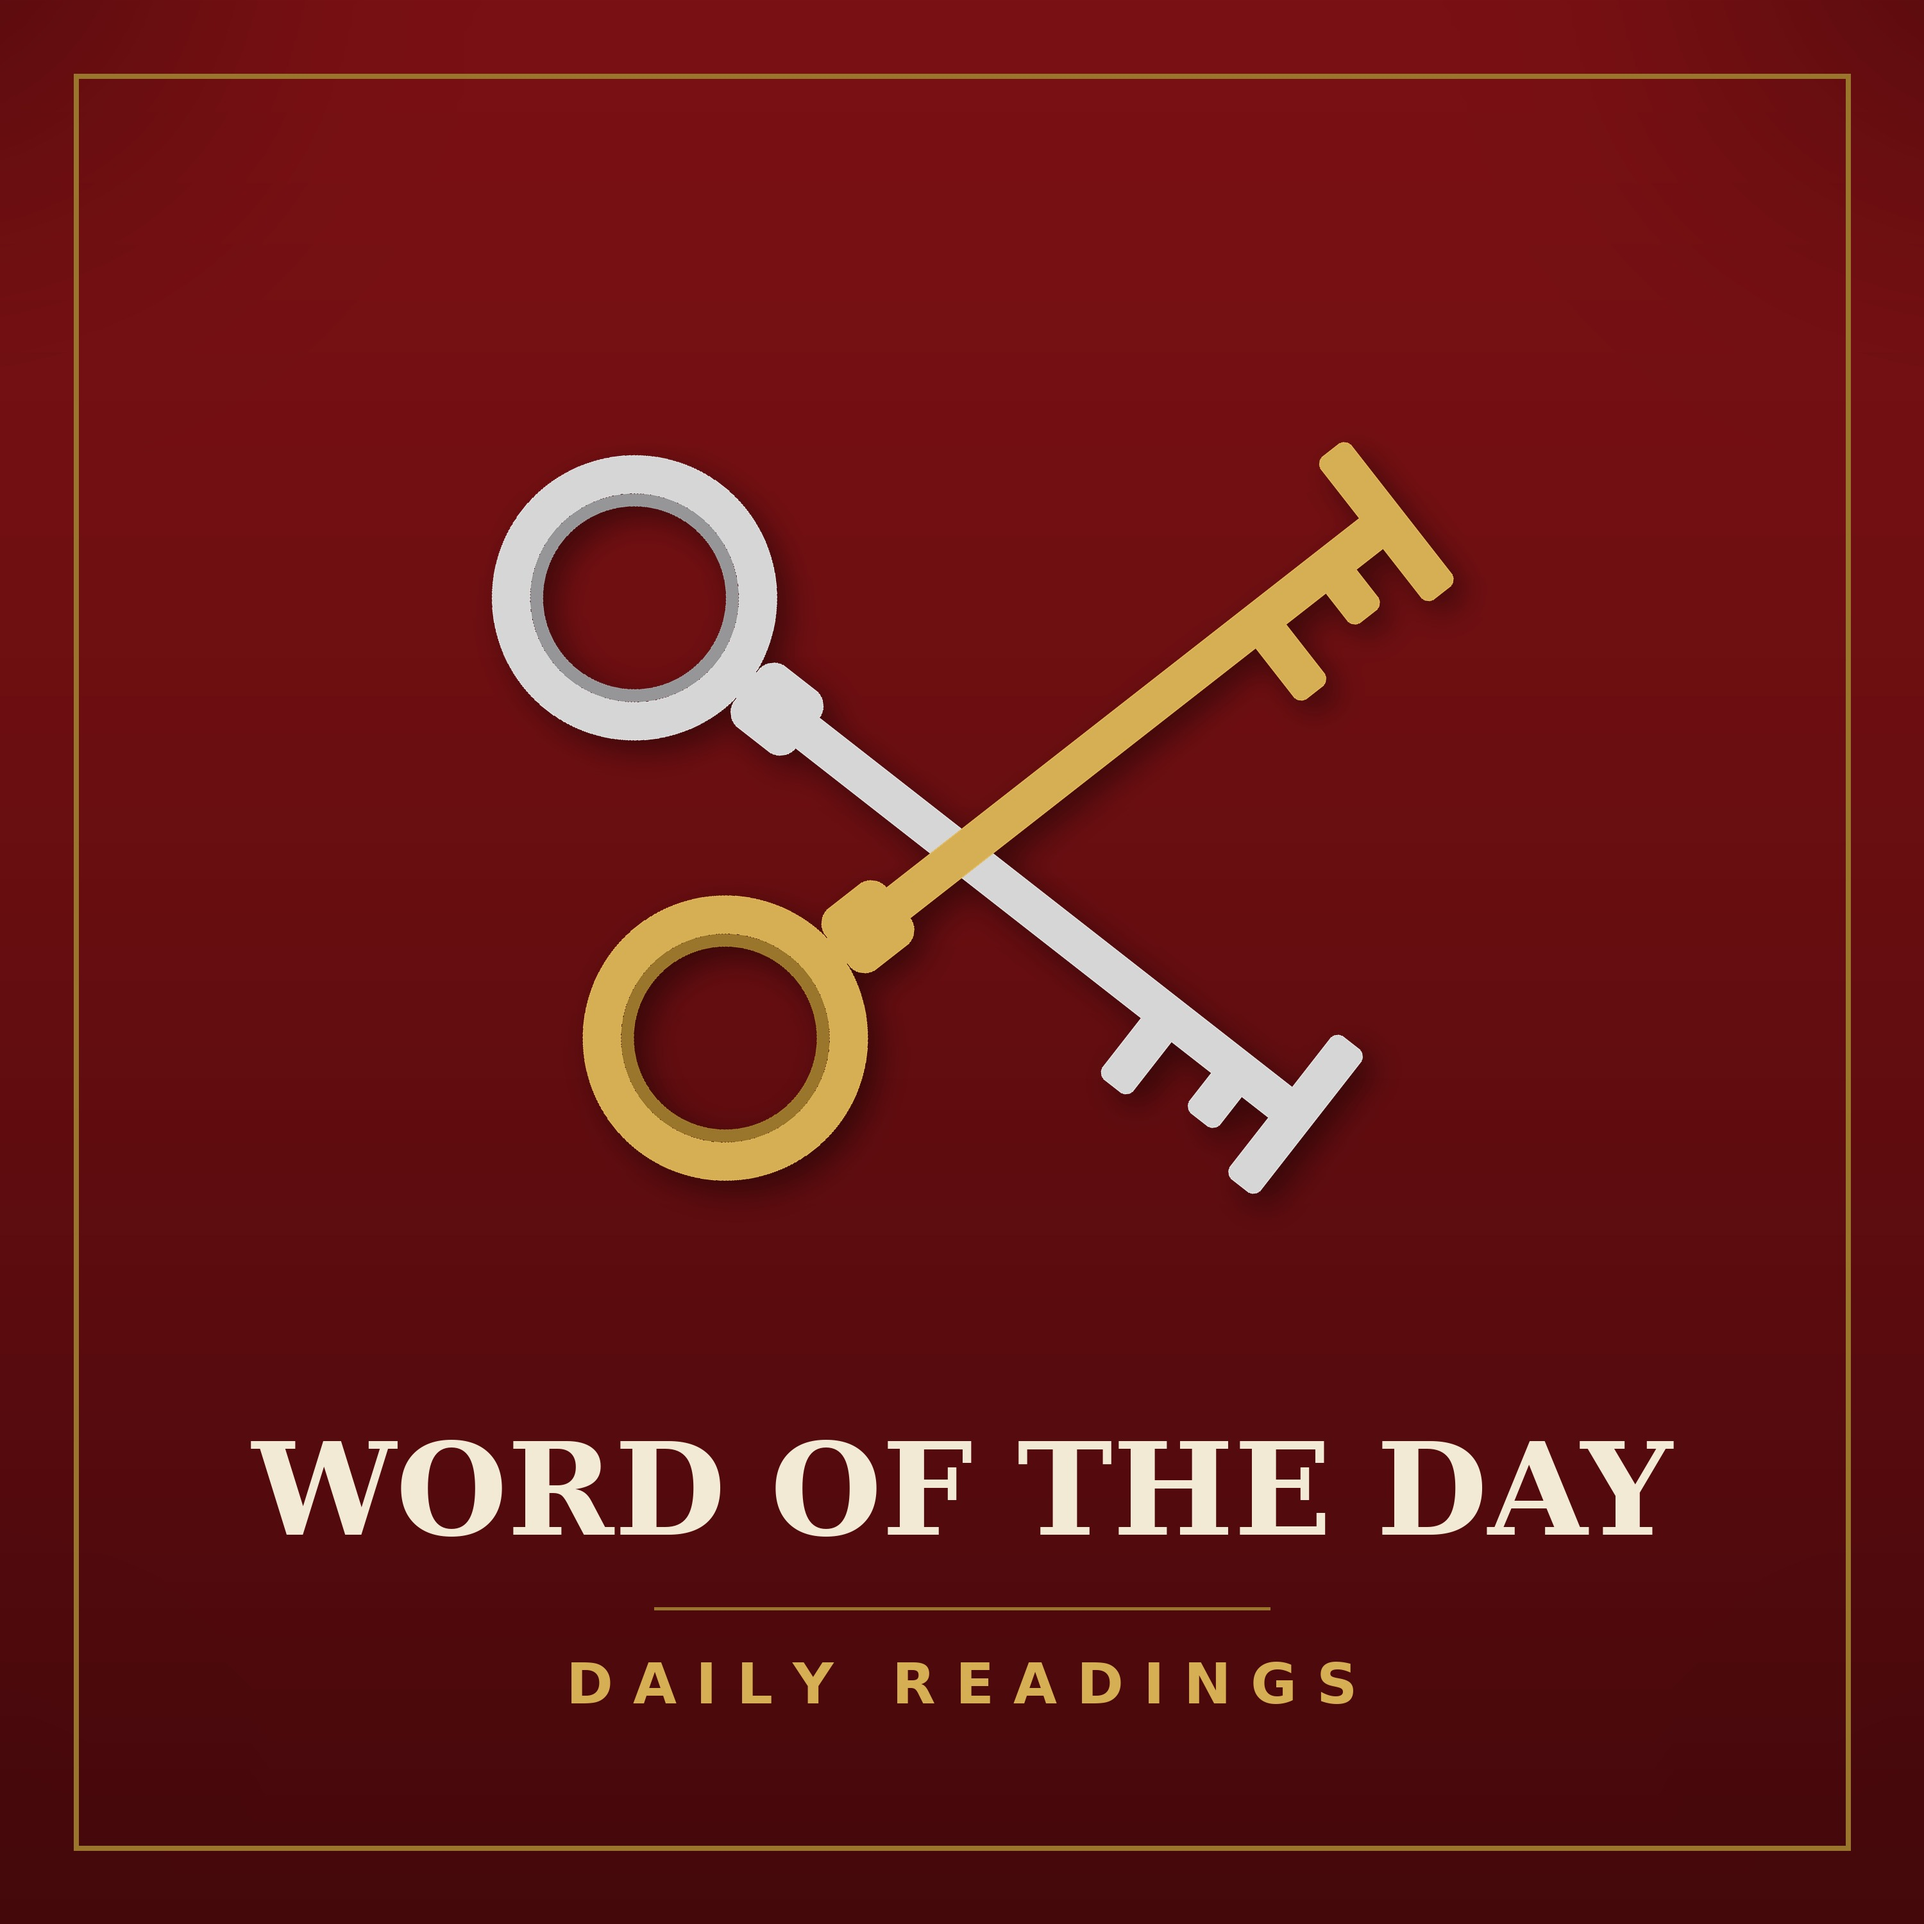
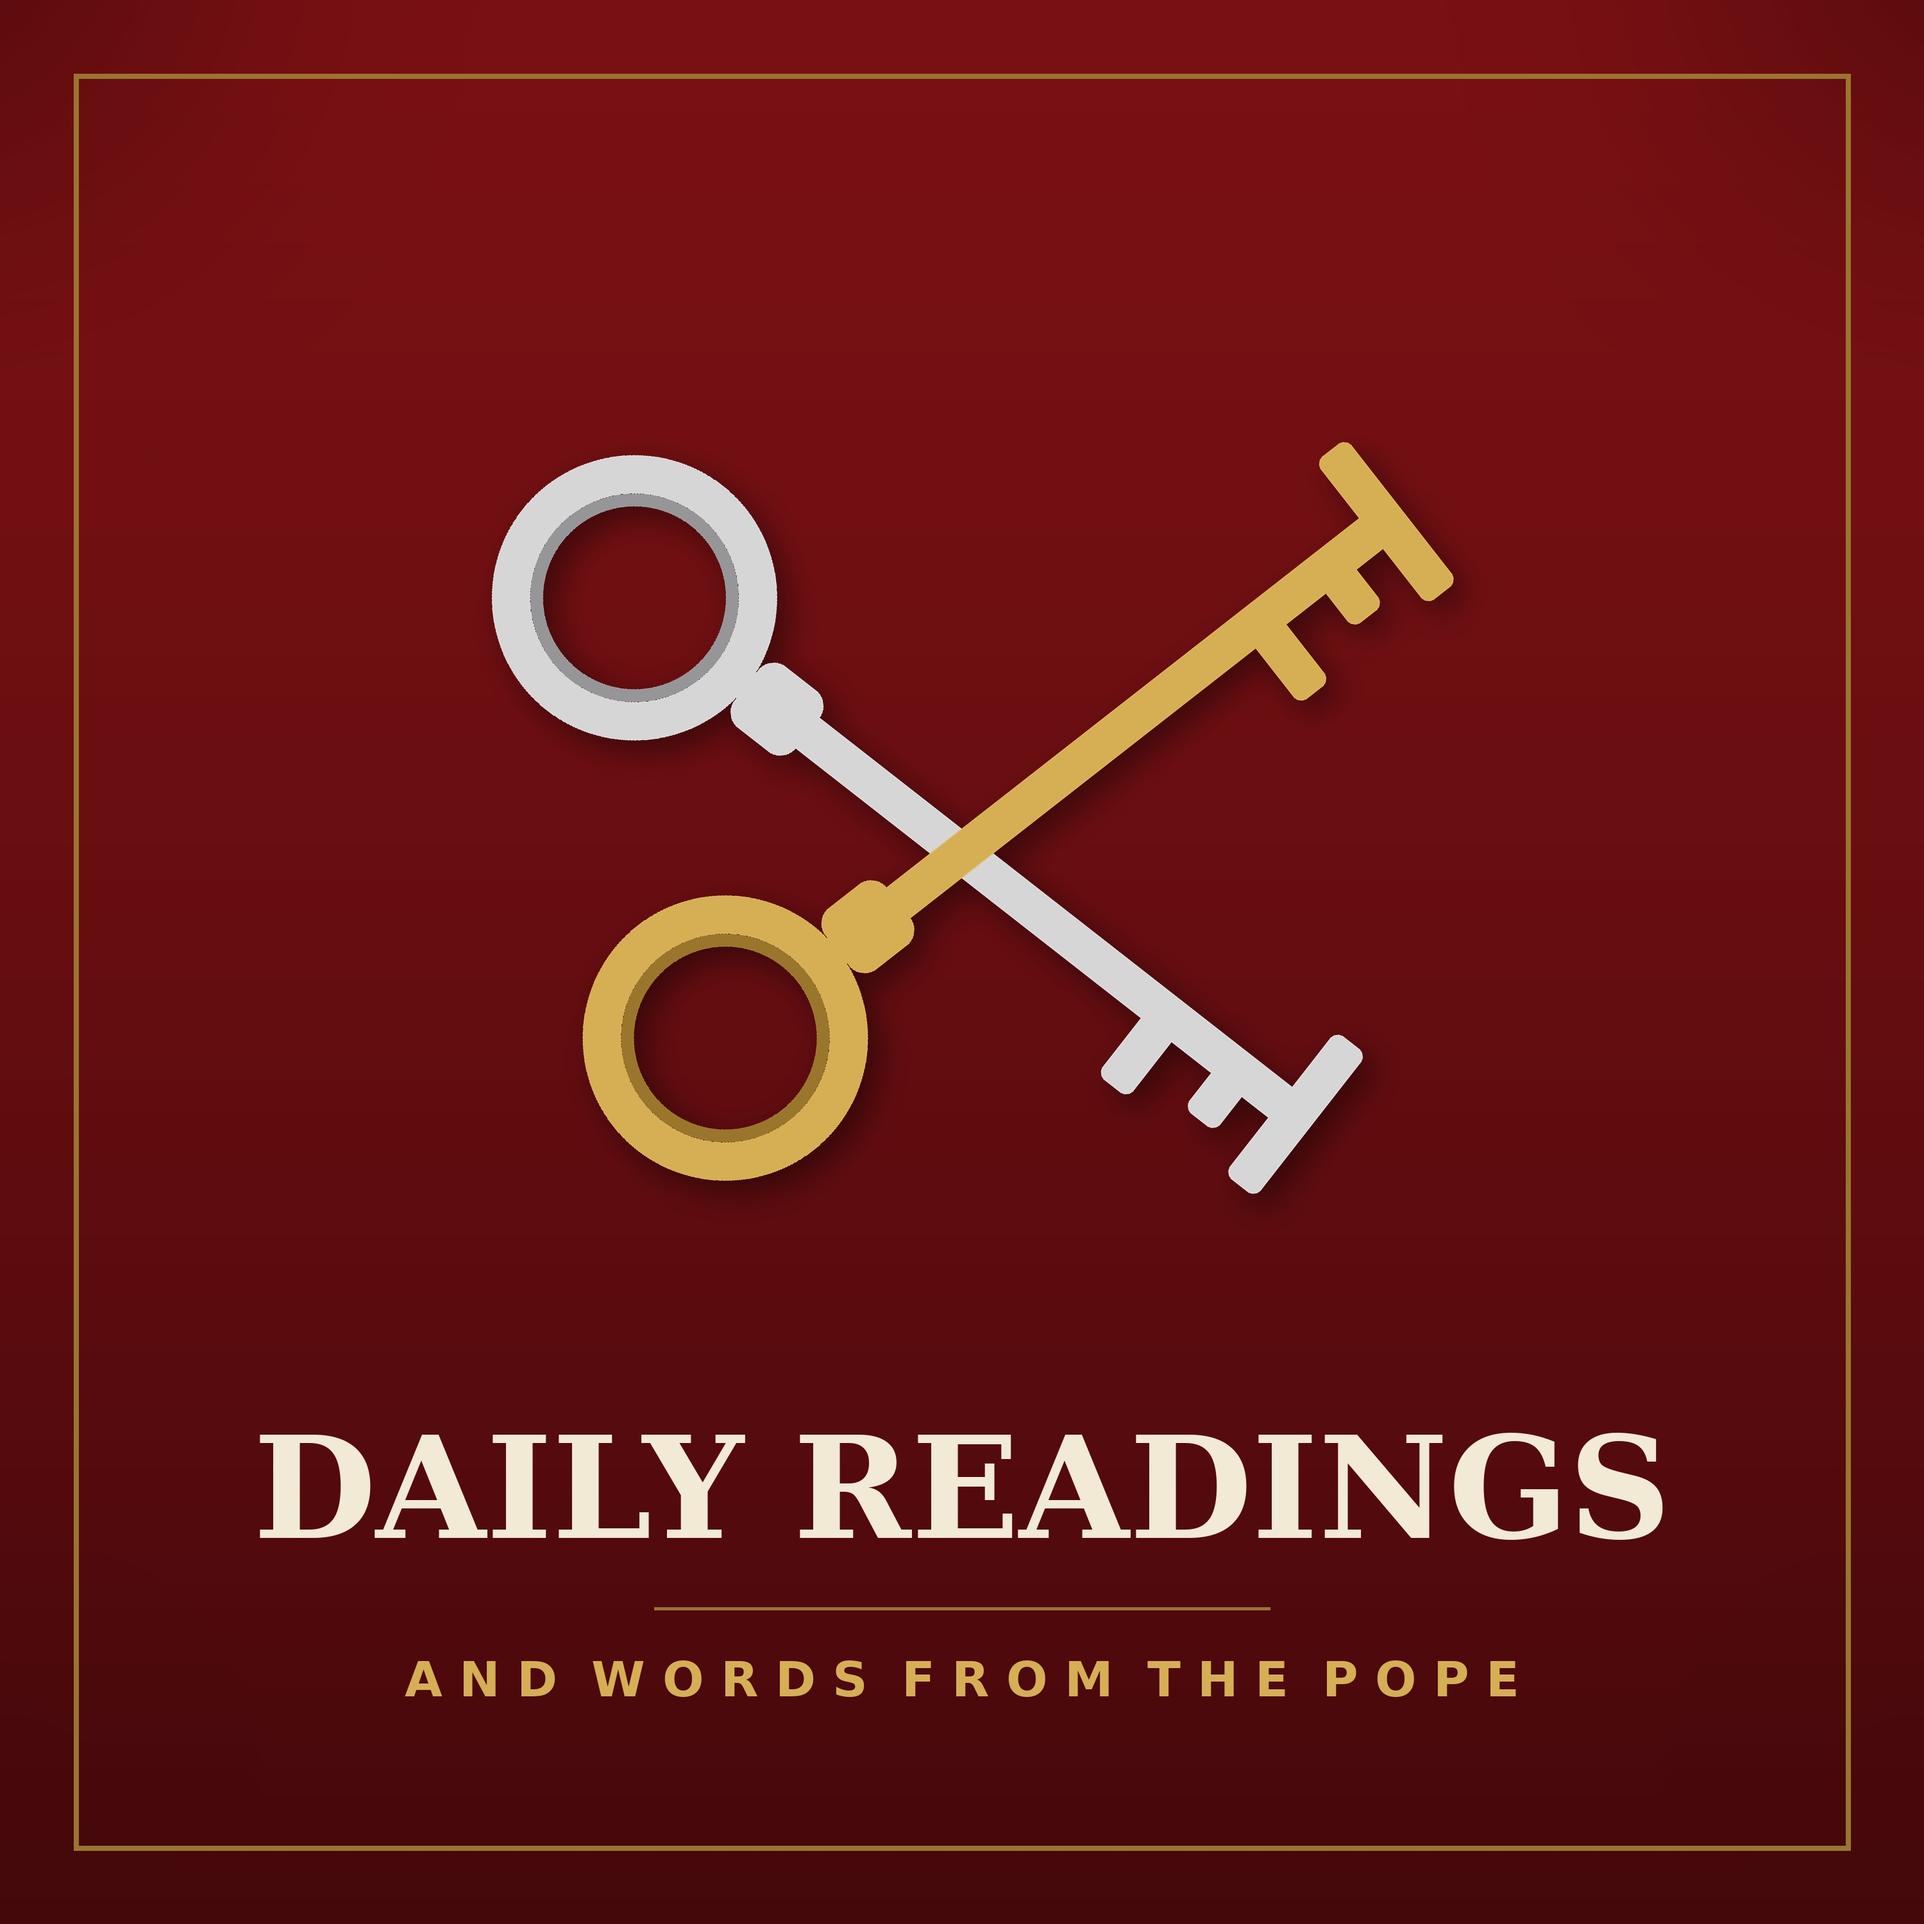
Match the artwork and episode titles to the new show name
Cover art now reads DAILY READINGS with 'and words from the Pope' beneath
it. Cover art is usually seen small in a list, so a short bold phrase reads
better there than the full show name crammed in.

Episode titles become 'Daily Readings - 02 August 2026' via EPISODE_PREFIX.

Claude-Session: https://claude.ai/code/session_01S5iU8V5MqgyuBfBSzgeCgr

Changed region(s): [[0.124, 0.744, 0.868, 0.806], [0.217, 0.868, 0.806, 0.899]]

diff --git a/tools/make_cover.py b/tools/make_cover.py
@@ -143,17 +143,17 @@ def add_text(img):
     d = ImageDraw.Draw(img)
     # Keep type well inside the border rather than running up against it.
     safe = SIZE * 0.74
-    title = fitted_font(d, "WORD OF THE DAY", SERIF_BOLD, safe, SIZE // 11)
-    sub = fitted_font(d, "D A I L Y   R E A D I N G S", SANS_BOLD,
-                      safe * 0.62, SIZE // 34)
+    title = fitted_font(d, "DAILY READINGS", SERIF_BOLD, safe, SIZE // 9)
+    sub = fitted_font(d, "A N D  W O R D S  F R O M  T H E  P O P E", SANS_BOLD,
+                      safe * 0.82, SIZE // 34)
 
     def centred(text, font, y, fill):
         box = d.textbbox((0, 0), text, font=font)
         d.text(((SIZE - (box[2] - box[0])) / 2 - box[0], y), text,
                font=font, fill=fill)
 
-    centred("WORD OF THE DAY", title, int(SIZE * 0.735), CREAM)
-    centred("D A I L Y   R E A D I N G S", sub, int(SIZE * 0.858), GOLD)
+    centred("DAILY READINGS", title, int(SIZE * 0.730), CREAM)
+    centred("A N D  W O R D S  F R O M  T H E  P O P E", sub, int(SIZE * 0.858), GOLD)
 
     # Thin rule between the two lines of type.
     y = int(SIZE * 0.836)

diff --git a/word_of_the_day.py b/word_of_the_day.py
@@ -70,6 +70,8 @@ PODCAST_DESCRIPTION = os.environ.get(
     "of the Popes, read aloud each morning.",
 ).strip()
 PODCAST_AUTHOR = os.environ.get("PODCAST_AUTHOR", "Vatican News (unofficial)").strip()
+# Prefix for each episode title, followed by the date.
+EPISODE_PREFIX = os.environ.get("EPISODE_PREFIX", "Daily Readings").strip()
 # Spotify emails a verification code to this address before it will accept the
 # feed, so submission fails without it. It is visible to anyone who reads the
 # feed, so use an address you are happy to publish.
@@ -466,8 +468,8 @@ def rebuild_feed():
       <itunes:duration>{secs}</itunes:duration>
       <itunes:explicit>no</itunes:explicit>
     </item>""".format(
-            title=_xml_escape("Word of the Day - {}".format(
-                day.strftime("%d %B %Y"))),
+            title=_xml_escape("{} - {}".format(
+                EPISODE_PREFIX, day.strftime("%d %B %Y"))),
             desc=_xml_escape("The reading, the Gospel, and the words of the "
                              "Popes for {}.".format(day.strftime("%d %B %Y"))),
             page=_xml_escape(page),
